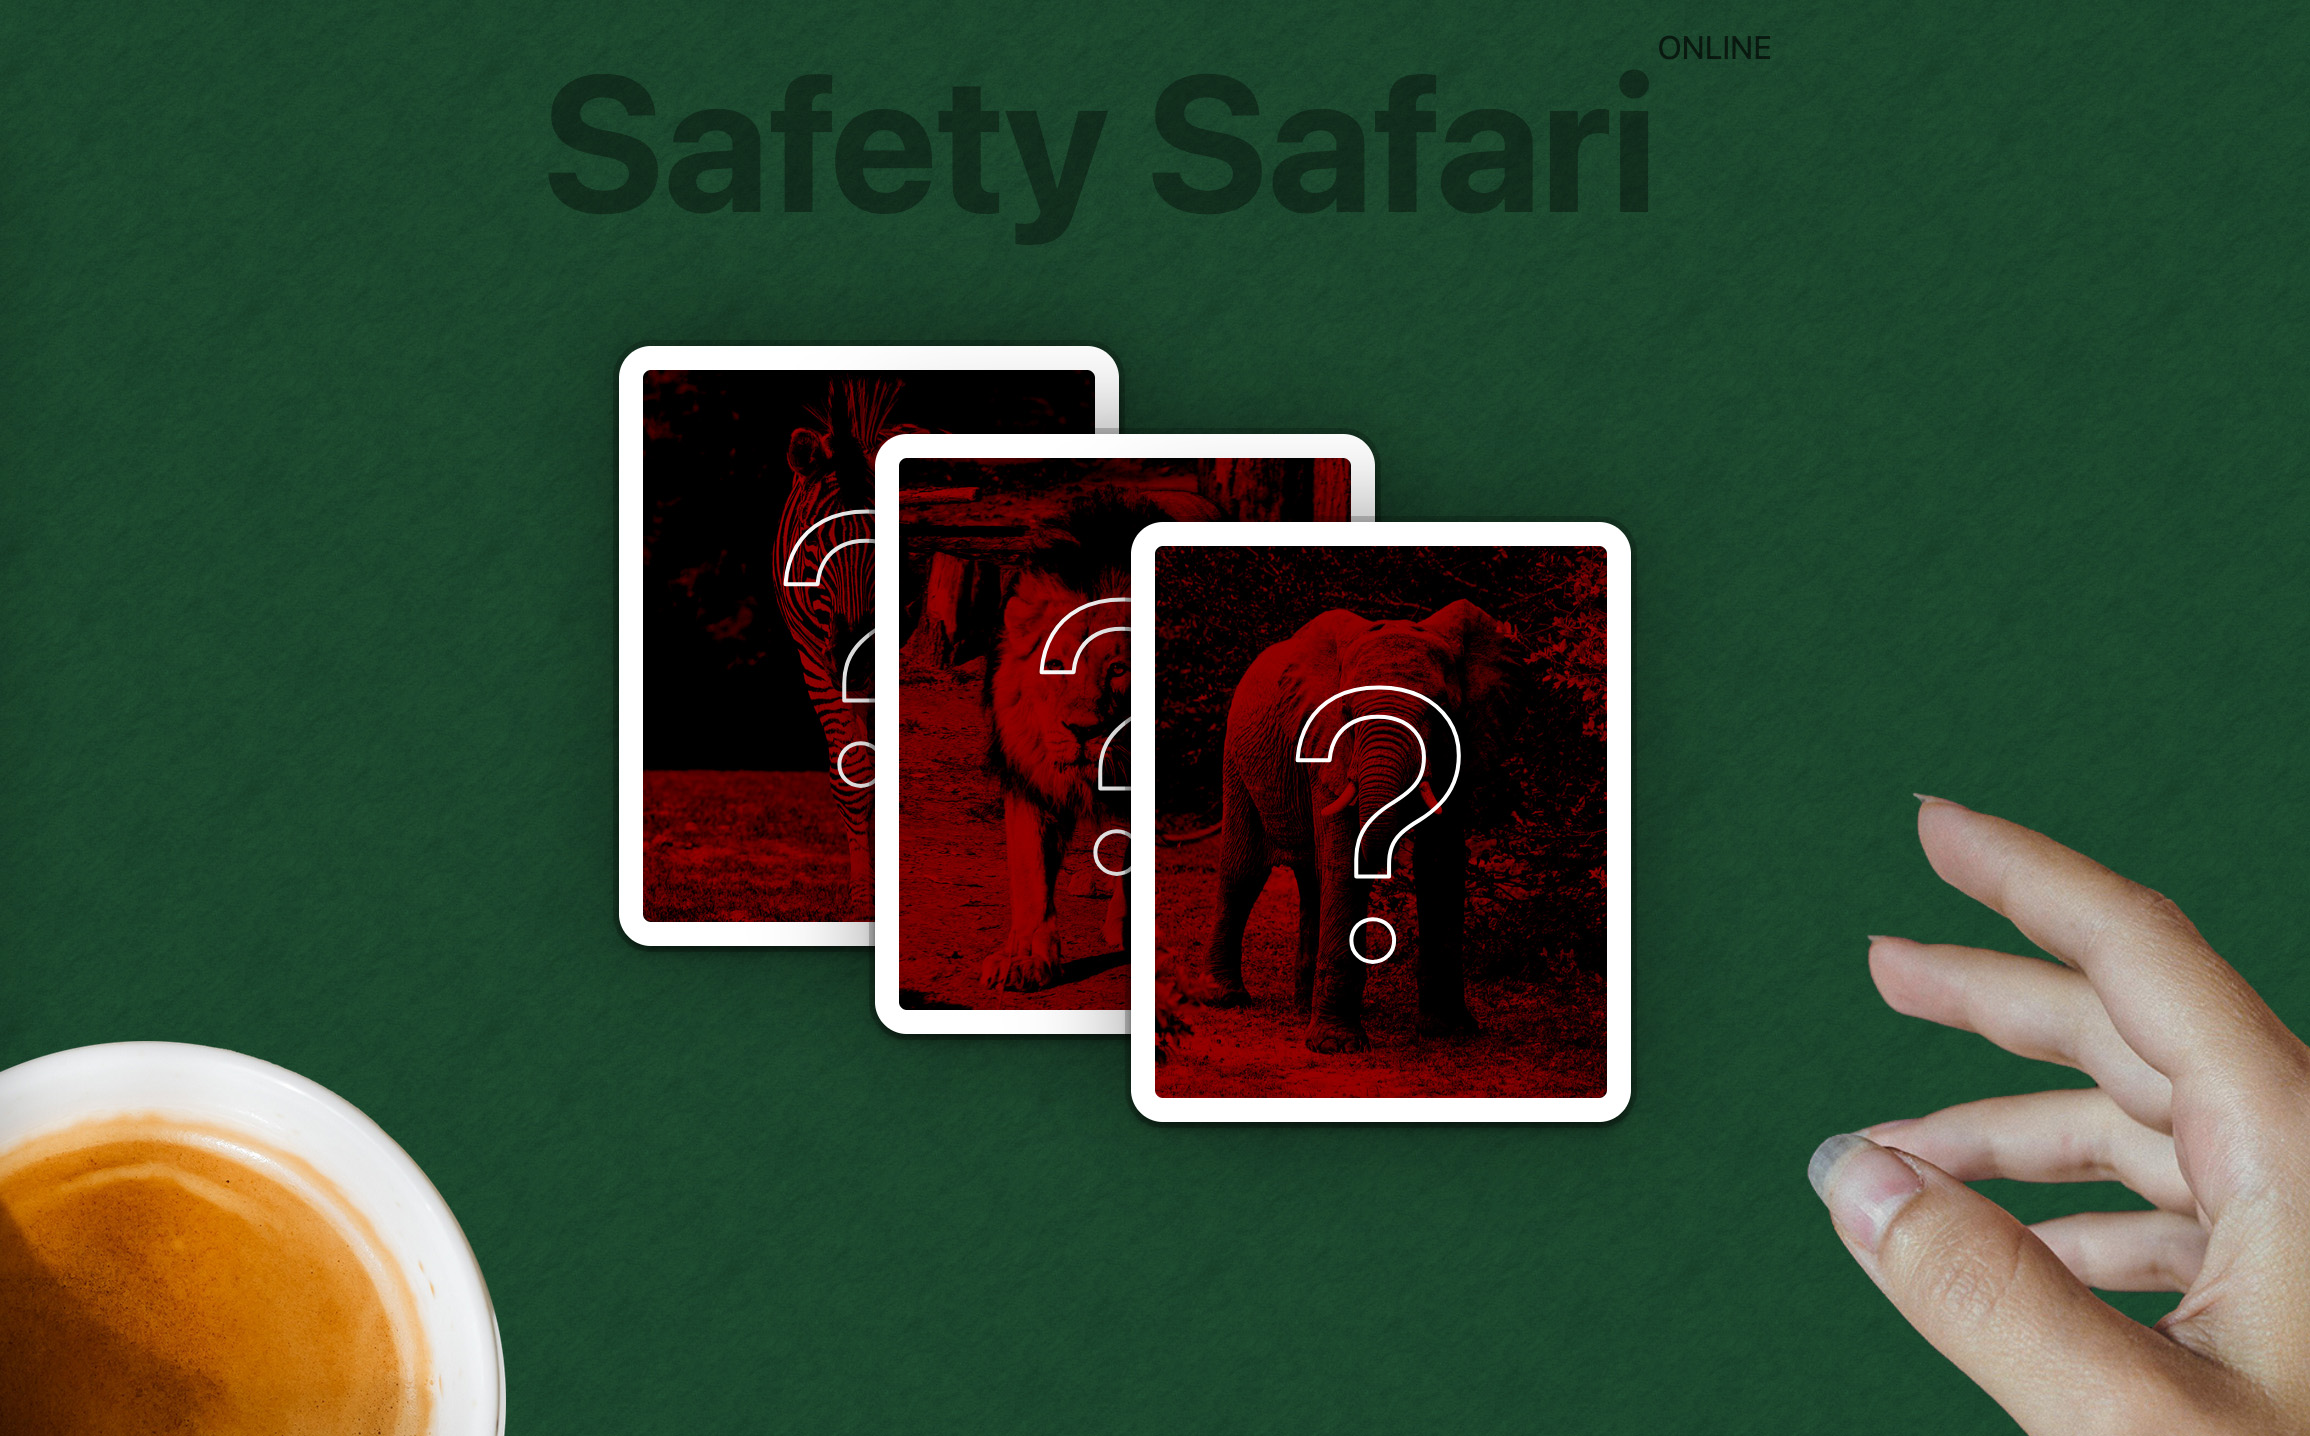
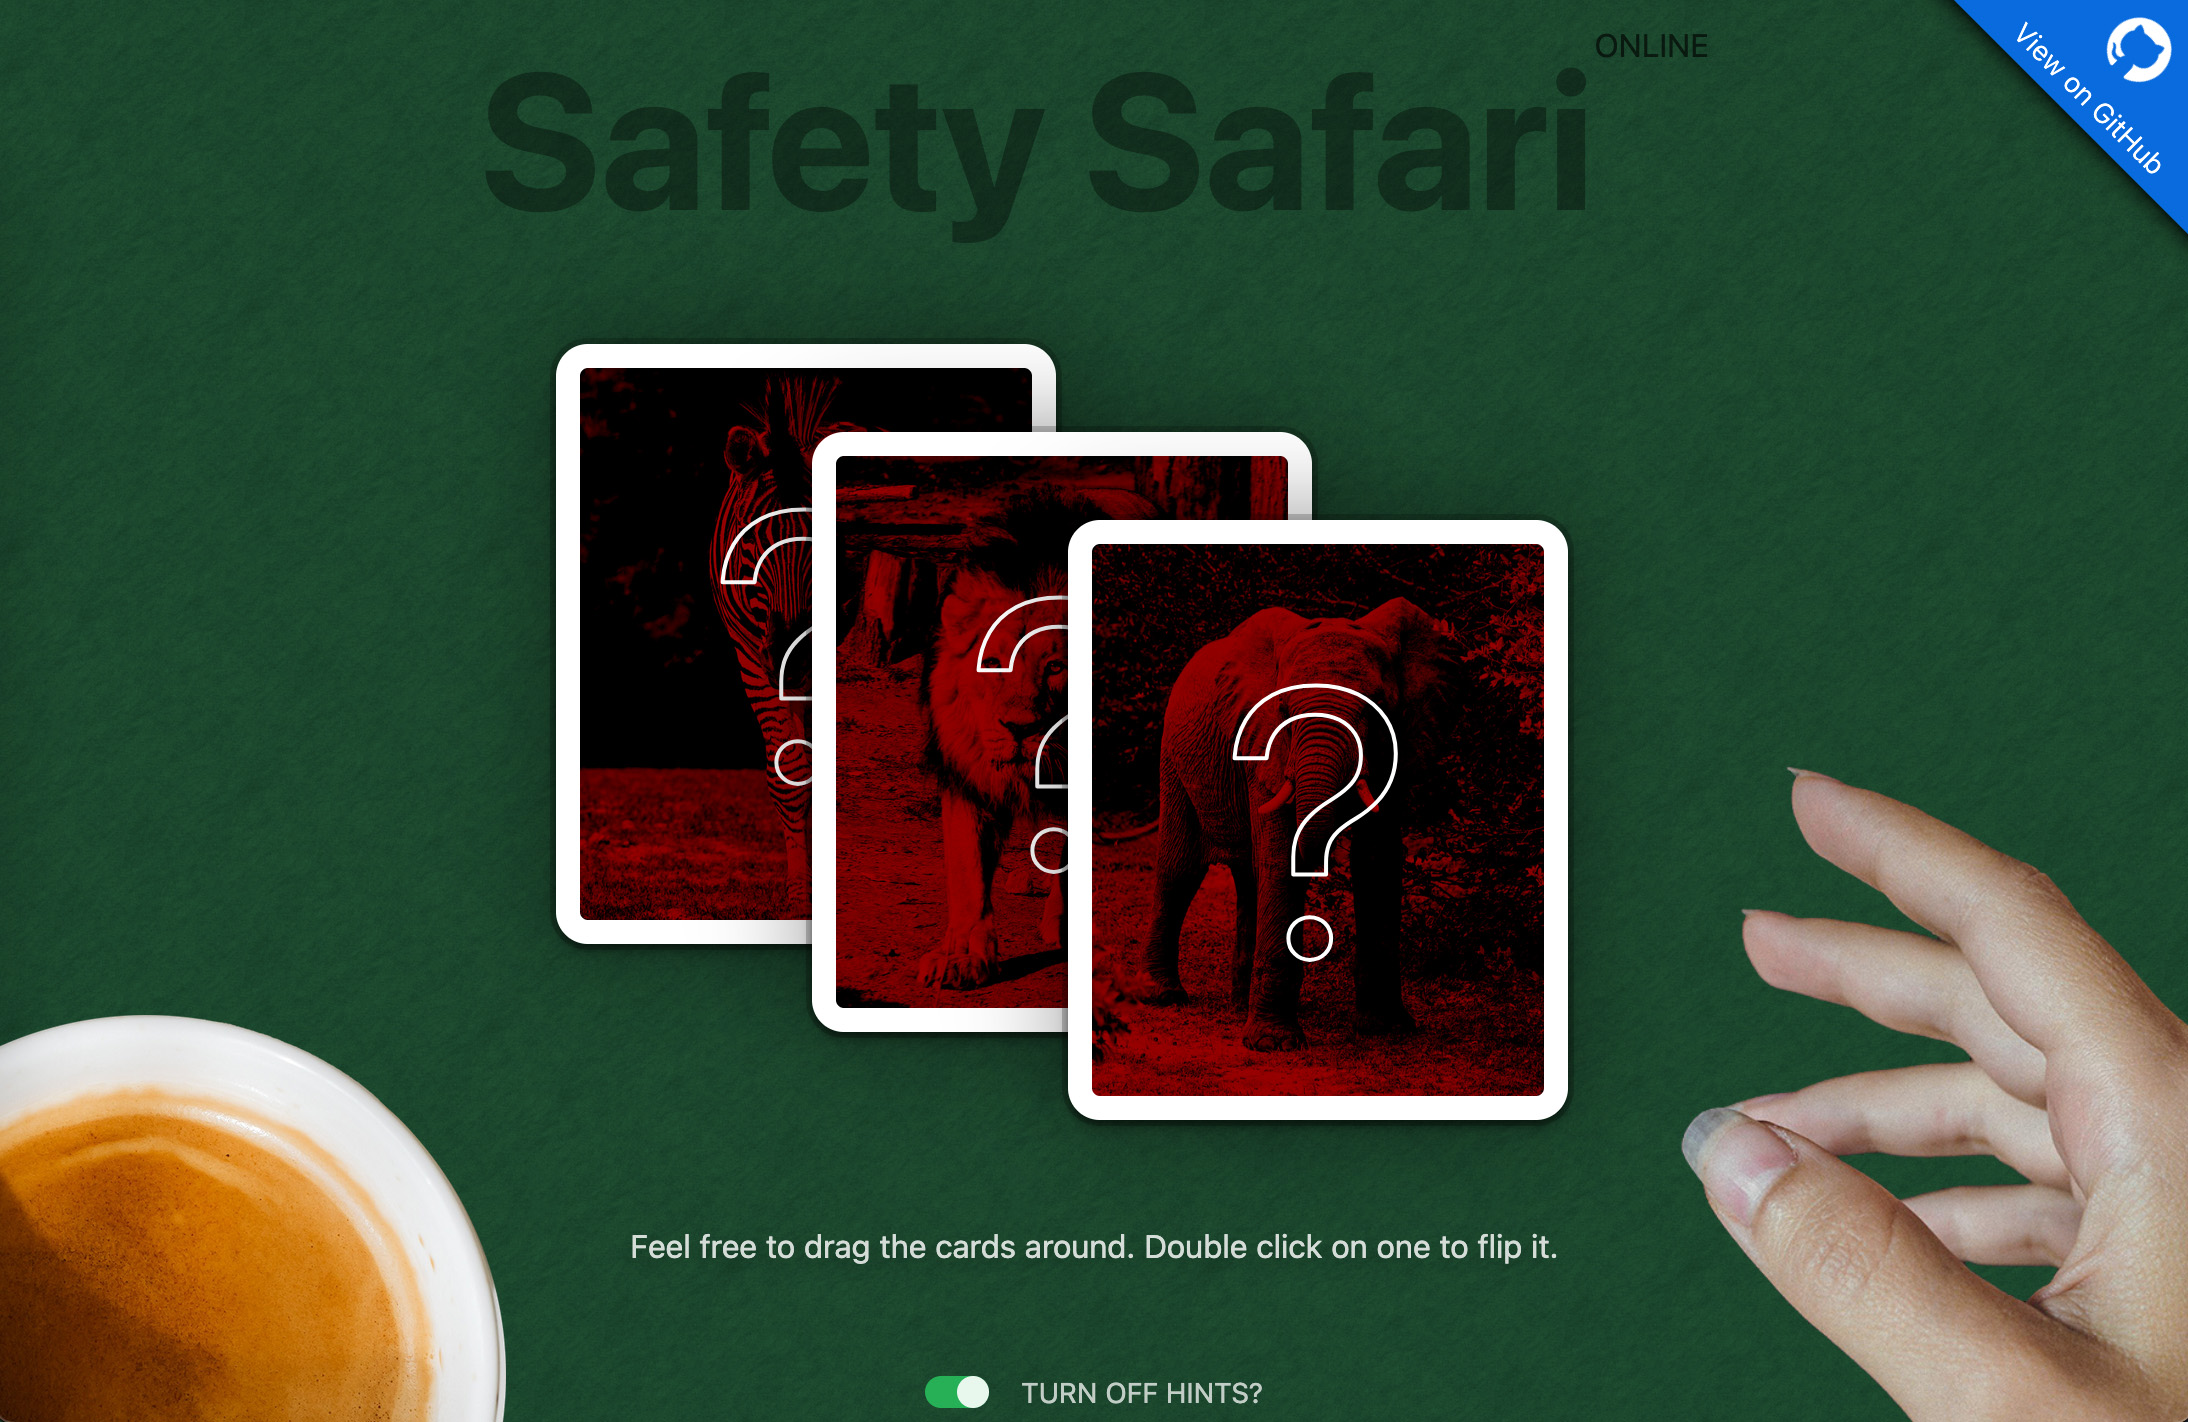
hints mode + better alt text

diff --git a/index.html b/index.html
@@ -23,46 +23,91 @@
       <div id="cardOne" class="card marginleft-minusxxxlarge">
         <div id="back1" class="cardBack">
 
-          <!-- START QUESTION 1 -->
+          <!-- ...... START ....... -->
+          <!-- ..... QUESTION ..... -->
+          <!-- ........ 1 ......... -->
           Your phone was stolen last night at the restaurant. What do you do?
-          <!-- END QUESTION 1 -->
+          <!-- ....... END ........ -->
+          <!-- ..... QUESTION ..... -->
+          <!-- ........ 1 ......... -->
 
         </div>
         <div id="front1" class="cardFront">
+          <div class="screen-reader-text">
+            A playing card with a photo of a zebra (color filtered with only red and black) on it
+          </div>
           ?
         </div>
       </div>
       <div id="cardTwo" class="card margintop-minusxxxlarge">
         <div id="back2" class="cardBack">
 
-          <!-- START QUESTION 2 -->
+          <!-- ...... START ....... -->
+          <!-- ..... QUESTION ..... -->
+          <!-- ........ 2 ......... -->
           Your manager at work says someone has contact them about your social media posts. Your manager is unhappy about this. What do you do?
-          <!-- END QUESTION 2 -->
+          <!-- ....... END ........ -->
+          <!-- ..... QUESTION ..... -->
+          <!-- ........ 2 ......... -->
 
         </div>
         <div id="front2" class="cardFront"> 
+          <div class="screen-reader-text">
+            A playing card with a photo of a lion (color filtered with only red and black) on it
+          </div>
           ?
         </div>
       </div>
       <div id="cardThree" class="card margintop-minusxxxlarge marginleft-xxxlarge">
         <div id="back3" class="cardBack">
 
-          <!-- START QUESTION 3 -->
+          <!-- ...... START ....... -->
+          <!-- ..... QUESTION ..... -->
+          <!-- ........ 3 ......... -->
           Your close friend is being harassed online, and it's been happening for more than a month. What do you do?
-          <!-- END QUESTION 3 -->
-
+          <!-- ....... END ........ -->
+          <!-- ..... QUESTION ..... -->
+          <!-- ........ 3 ......... -->
+          
         </div>
         <div id="front3" class="cardFront">
+          <div class="screen-reader-text">
+            A playing card with a photo of a elephant (color filtered with only red and black) on it
+          </div>
           ?
         </div>
       </div>
     </div>
     <div class="display-none display-block-mediaM position-fixed" style="bottom: -10rem; left: -12rem; pointer-events: none">
-      <img style="width: 28rem;" src="img/coffeecup.png">
+      <img id="coffeecup" src="img/coffeecup.png" alt="Top down photo of an almost full ceramic coffee cup">
     </div>
     <div class="display-none display-block-mediaM position-fixed zindex-3" style="bottom: -12rem; right: -15rem; pointer-events: none;">
-      <img style="width: 32rem;" src="img/hand-sm.png">
+      <img id="hand" src="img/hand-sm.png" alt="A photo of a relaxed, light-skinned hand with long fingernails">
     </div>
+    <div id="hints" class="display-block">
+      <a class="textdecoration-none" href="https://github.com/narwhalacademy/safety-safari">
+        <div>
+          <div class="position-fixed zindex-2 boxshadow-2 width-xxxlarge height-xxlarge textalign-center transform-rotate45deg" style="top: -3rem; right: -7rem; background-color: #096BDE;">
+            <img class="width-large display-inlineblock margintop-xlarge" src="img/GitHub_Invertocat_Light.svg" alt="GitHub logo" />
+            <div class="fontsize-2 color-white margintop-small">
+              View on GitHub
+            </div>
+          </div>
+        </div>
+      </a>
+      <div class="position-fixed bottom-1 marginbottom-xlarge width-100percent textshadow-4 textalign-center color-tint9 fontsize-2 fontsize-3-mediaL">
+        Feel free to drag the cards around. Double click on one to flip it.
+      </div>
+    </div>
+    <div class="display-flex flexdirection-row alignitems-center justifycontent-center position-fixed bottom-0 marginbottom-small width-100percent textalign-left width-100pecent">
+      <div id="toggleBackground" class="width-large height-medium borderradius-5 backgroundcolor-green6 cursor-pointer" onclick="toggleHints();">
+        <div id="toggleButton" class="width-medium height-medium marginleft-medium borderradius-5 backgroundcolor-tint10" style="transition: 0.5s;"></div>
+      </div>
+      <div id="toggleHintLabel" class="marginleft-medium color-tint8 texttransform-uppercase fontsize-2">
+        Turn off hints?
+      </div>
+    </div>
+
     <script src="js/script.js"></script>
   </body>
 </html>

diff --git a/js/script.js b/js/script.js
@@ -33,6 +33,15 @@ $( function() {
   $( "#cardThree" ).draggable();
 } );
 
+function toggleHints() {
+    $( "#hints" ).toggleClass( "display-block" );
+    $( "#hints" ).toggleClass( "display-none" );
+    $( "#toggleBackground" ).toggleClass( "backgroundcolor-shadow8" );
+    $( "#toggleBackground" ).toggleClass( "backgroundcolor-green6" );
+    $( "#toggleButton" ).toggleClass( "marginleft-medium" );
+    $( "#toggleHintLabel" ).toggleClass( "display-none" );
+}
+
 // https://dirask.com/posts/JavaScript-bring-div-element-to-front-on-click-DdZ3Qj
 function createStack(counter) {
     if (counter == null) {
@@ -58,20 +67,3 @@ var stack = createStack();
 stack.registerElement(document.querySelector('#cardOne'));
 stack.registerElement(document.querySelector('#cardTwo'));
 stack.registerElement(document.querySelector('#cardThree'));
-
-// https://www.geeksforgeeks.org/read-json-file-using-javascript/
-function fetchJSONData() {
-    fetch("./questions.json")
-        .then((res) => {
-            if (!res.ok) {
-                throw new Error
-                    (`HTTP error! Status: ${res.status}`);
-            }
-            return res.json();
-        })
-        .then((data) =>
-            console.log(data))
-        .catch((error) =>
-            console.error("Unable to fetch data:", error));
-}
-fetchJSONData();

diff --git a/css/style.css b/css/style.css
@@ -55,3 +55,18 @@
 #front3 {
   background-image: url('../img/elephant-7774904-red.jpg');
 }
+
+#coffeecup {
+  width: 22.4rem;
+}
+#hand {
+  width: 25.6rem;
+}
+@media (min-width:64em) {
+  #coffeecup {
+    width: 28rem;
+  }
+  #hand {
+    width: 32rem;
+  }
+}

diff --git a/README.md b/README.md
@@ -4,6 +4,8 @@
 
 A simple card game interface to spice up online workshops where the faciliator walks their attendees through three digital safety scenarios. Feel free to customize it and use it in your own workshops!
 
+[View a live demo online.](https://safetysafari.narwhalacademy.org)
+
 ## How to use
 
 Note: Safety Safari assumes that the faciliator is sharing their screen on a desktop or laptop computer (it doesn't really work on phones or tablets very well).
